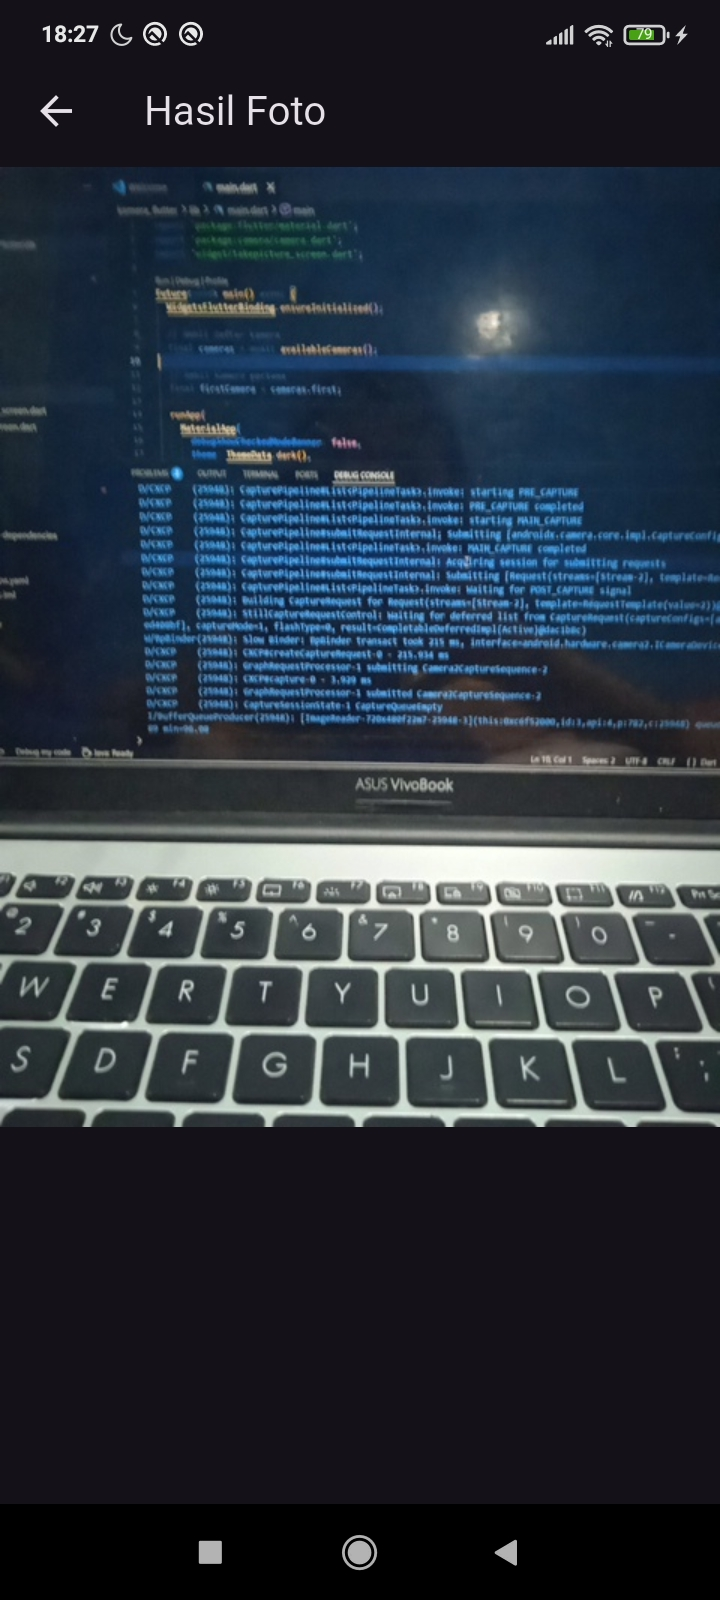
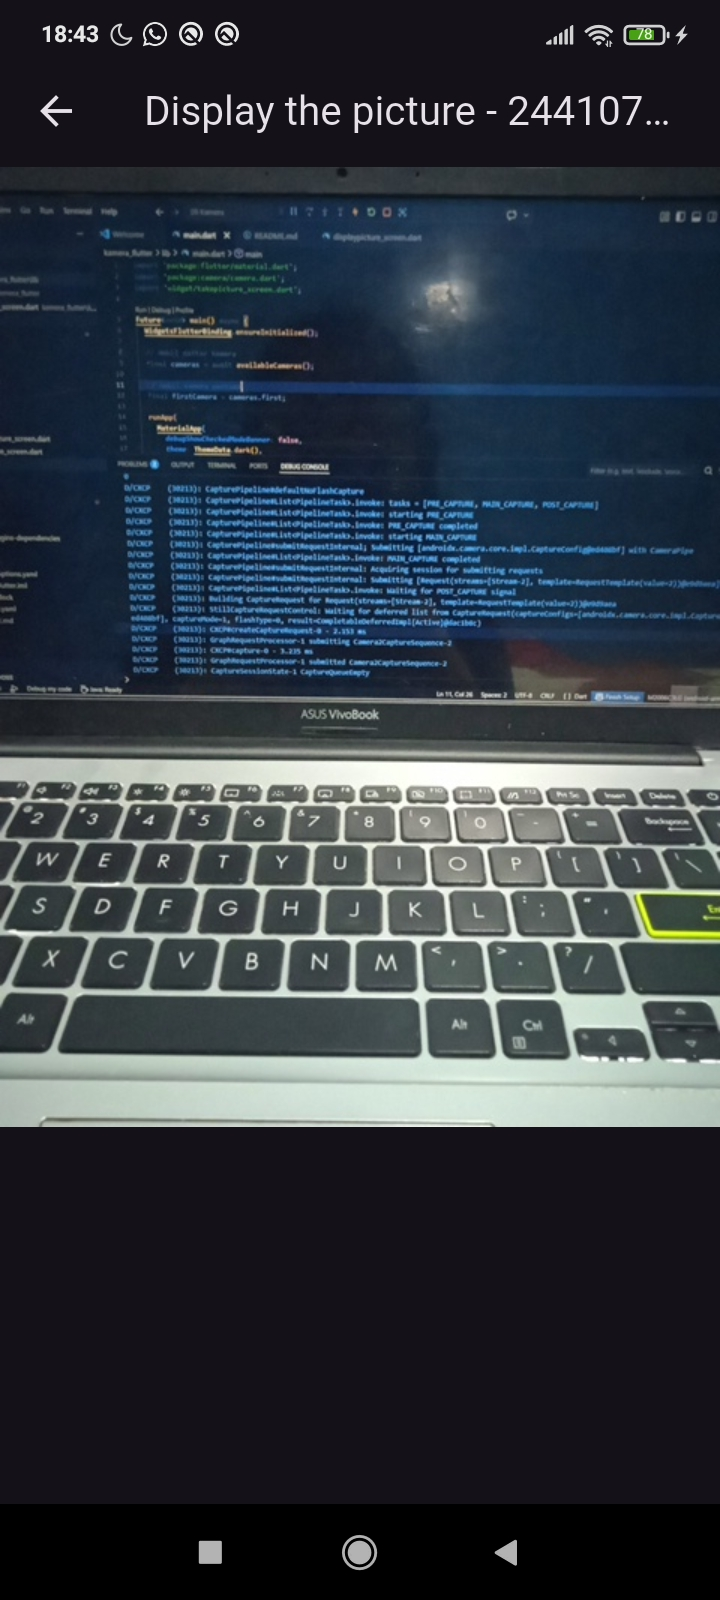
praktikum9

diff --git a/09 Kamera/kamera_flutter/lib/widget/displaypicture_screen.dart b/09 Kamera/kamera_flutter/lib/widget/displaypicture_screen.dart
@@ -12,7 +12,7 @@ class DisplayPictureScreen extends StatelessWidget {
   @override
   Widget build(BuildContext context) {
     return Scaffold(
-      appBar: AppBar(title: const Text('Hasil Foto')),
+      appBar: AppBar(title: const Text('Display the picture - 244107060145')),
       body: Image.file(File(imagePath)),
     );
   }
